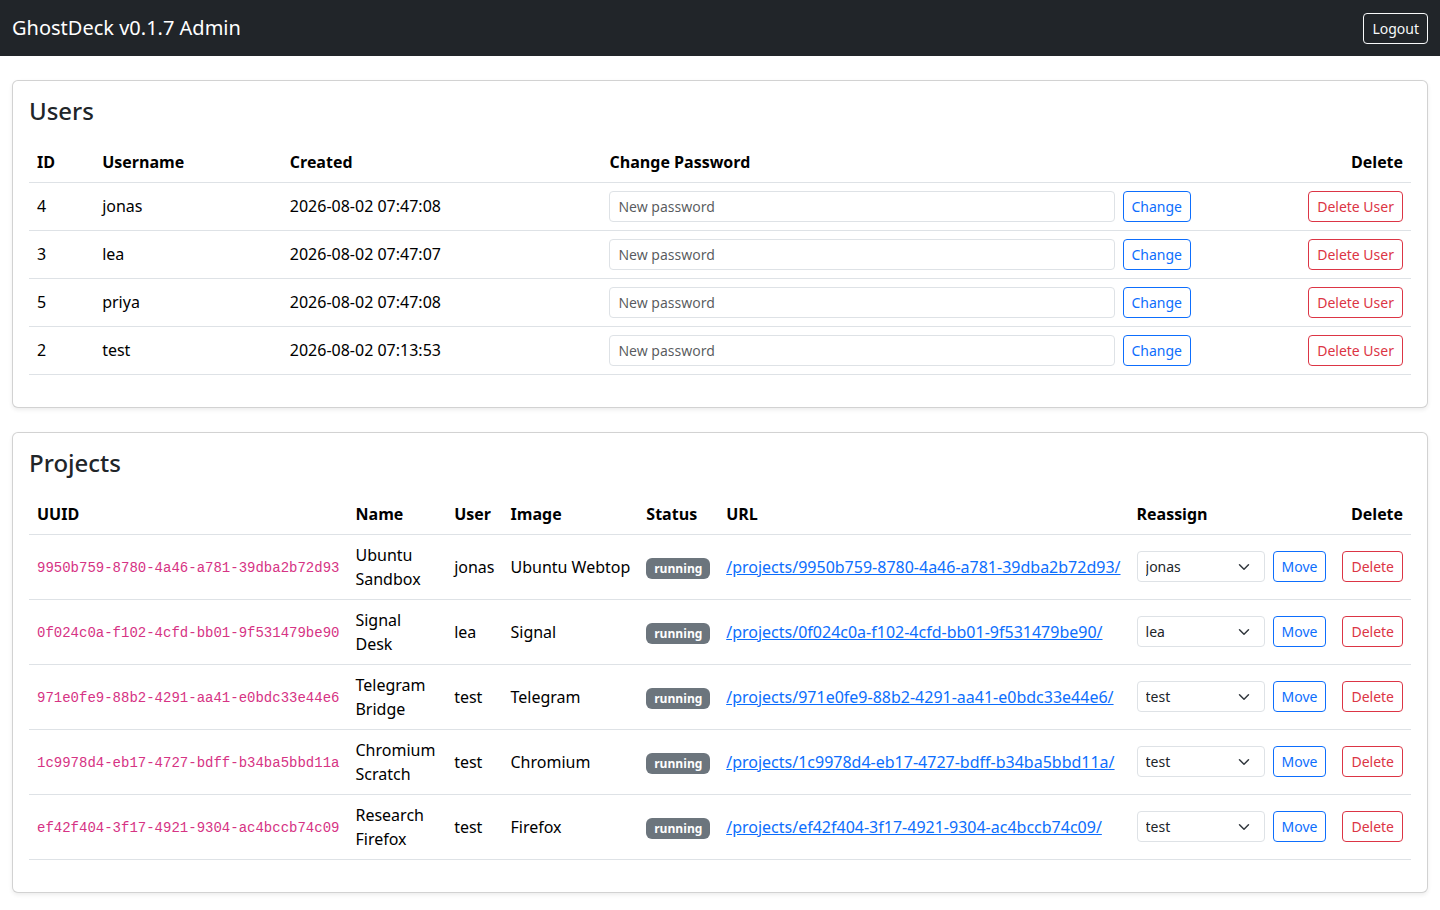
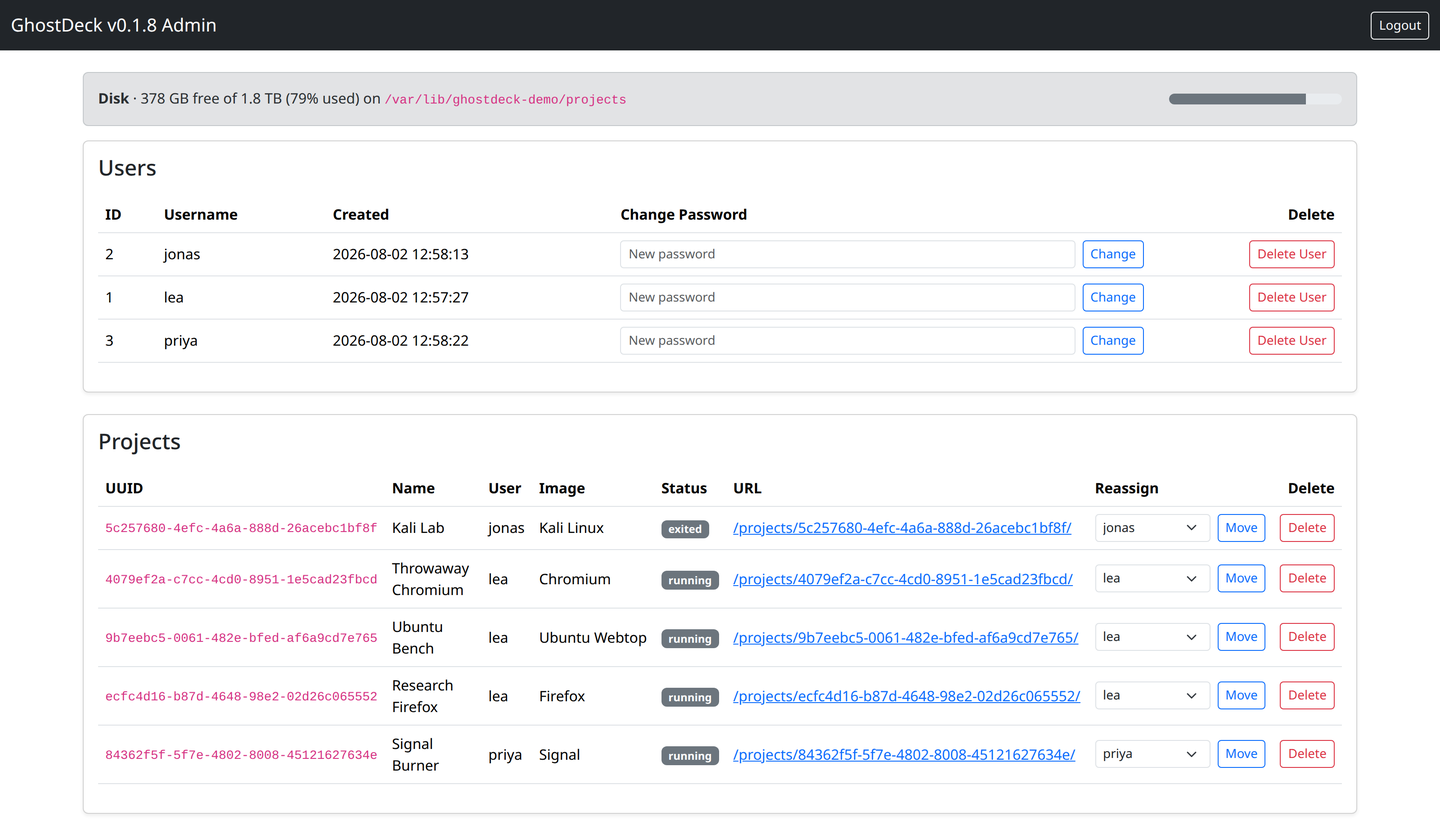
docs: sync from GhostDeck 0.1.9

diff --git a/README.md b/README.md
@@ -4,7 +4,7 @@ Self-hosted dashboard for disposable browser, messenger, Kali and Ubuntu workspa
 
 GhostDeck manages the workspace containers through the Docker socket and serves the dashboard and every workspace through a managed Caddy container with HTTPS. Workspaces need no host ports and no VNC client.
 
-![The GhostDeck dashboard with running workspaces](docs/img/dashboard.png)
+![The GhostDeck dashboard: three running workspaces, two of them on a shared network](docs/img/dashboard.png)
 
 ## What It Does
 
@@ -36,7 +36,9 @@ sudo systemctl enable --now ghostdeck
 sudo cat /var/lib/ghostdeck/.initial-admin-password
 ```
 
-Then open `https://<host>/` and sign in at `/admin/`.
+Then open `https://<host>/` and sign in at `/admin/`. Plain HTTP redirects to HTTPS by default.
+
+Application files go to `/opt/ghostdeck` and every piece of state to `/var/lib/ghostdeck`, so configuration is `/var/lib/ghostdeck/.env` and the service log — audit events included — is `sudo journalctl -u ghostdeck -f`. Upgrading is the same `apt install ./file.deb` with a newer package: `/var/lib/ghostdeck` is left untouched, so accounts, workspaces and the generated `.env` survive.
 
 ## Install — Docker
 
@@ -61,7 +63,14 @@ docker compose up -d
 sudo cat /var/lib/ghostdeck/.initial-admin-password
 ```
 
-Images are published on [Docker Hub](https://hub.docker.com/r/solivagvs/ghostdeck) as `solivagvs/ghostdeck:latest` and `:<version>` (multi-arch manifests for `linux/amd64` and `linux/arm64`), plus single-architecture `:<version>-amd64` and `:<version>-arm64`.
+Images are published on [Docker Hub](https://hub.docker.com/r/solivagvs/ghostdeck) as `solivagvs/ghostdeck:latest` and `:<version>` (multi-arch manifests for `linux/amd64` and `linux/arm64`), plus single-architecture `:<version>-amd64` and `:<version>-arm64`. Pin `:<version>` if you would rather choose when to move. Update with:
+
+```bash
+docker compose pull
+docker compose up -d
+```
+
+GhostDeck publishes no ports of its own, so nothing in that compose file maps one. Its managed Caddy container takes host `80` and `443`; if either is already in use, set `CADDY_HTTP_BIND` and `CADDY_HTTPS_BIND` on the GhostDeck container. Follow the log with `docker logs -f ghostdeck`.
 
 No configuration is required to start. On first run GhostDeck writes `/var/lib/ghostdeck/.env` with a generated `APP_SECRET`, a generated admin password and every default below. That file is never rewritten afterwards; environment variables set on the service or container override it.
 
@@ -79,6 +88,9 @@ No configuration is required to start. On first run GhostDeck writes `/var/lib/g
 | `DOCKER_NETWORK` | `ghostdeck-net` | Base network name. Per-project networks are `<name>-p<id>`. |
 | `ALLOW_SHARED_NETWORK` | `true` | Let owners put their own workspaces on a shared network so they can reach each other. |
 | `PROJECT_UNCONFINED` | `false` | Runs workspaces with `seccomp=unconfined`. Only needed if an image will not start otherwise. |
+| `IDLE_CHECK_MINUTES` | `5` | How often workspace throughput is sampled for the idle timers. `0` disables both timers. |
+| `MIN_FREE_DISK_GB` | `5` | Refuse image pulls when the workspace filesystem has less free space than this. `0` disables the check. |
+| `MAX_PROJECTS_PER_USER` | `0` | Cap on workspaces per account. `0` means no limit. |
 | `CADDY_HTTP_BIND` | `80` | Host port for HTTP. `off` disables it. `127.0.0.1:8080` binds one address. |
 | `CADDY_HTTPS_BIND` | `443` | Host port for HTTPS, same syntax. |
 | `TRUSTED_PROXIES` | none | CIDRs whose `X-Forwarded-For` is trusted, so login rate limits see the real client address. |
@@ -90,6 +102,17 @@ No configuration is required to start. On first run GhostDeck writes `/var/lib/g
 
 Users sign up at `https://<host>/register` and see only their own workspaces. Registration is **open by default**: anyone who can reach the dashboard can create an account and start a container on your Docker host. Set `REGISTRATION_TOKEN` to require a shared invite code, which adds an **Invite code** field to the form and rejects everything else. Wrong codes are rate limited per source address, as are failed logins.
 
+![The registration form with an invite code required](docs/img/register.png)
+
+Generate a code and apply it:
+
+```bash
+openssl rand -base64 16                # put the value in /var/lib/ghostdeck/.env
+sudo systemctl restart ghostdeck       # or: docker restart ghostdeck
+```
+
+It is one shared code rather than one per user, so rotate it once the intended people have signed up. Changing or clearing it affects new registrations only; existing accounts and sessions keep working, and an empty, commented-out or whitespace-only value means registration is open again.
+
 Admins manage every account and workspace from `/admin/`, including reassigning a workspace to another user and resetting passwords.
 
 ![The admin view listing users and their workspaces](docs/img/admin.png)
@@ -98,9 +121,19 @@ Admins manage every account and workspace from `/admin/`, including reassigning 
 
 Each project container runs on its own Docker bridge network, `<DOCKER_NETWORK>-p<project-id>`. Only the managed Caddy container is attached to every project network, so one workspace cannot reach another workspace's container directly; reaching one through Caddy requires a session that owns it.
 
-Workspaces are isolated from each other unless their owner puts them on a shared network. A shared network is an opt-in second network, toggled per workspace from its settings page, that lets one owner's workspaces reach each other by name — two machines on one bench. Shared networks never span accounts, and joining or leaving takes effect without restarting the workspace. `ALLOW_SHARED_NETWORK=false` removes the feature.
+Workspaces are isolated from each other unless their owner puts them on a shared network. A shared network is an opt-in second network, toggled per workspace from its settings page, that lets one owner's workspaces reach each other by a name derived from the workspace, such as `ubuntu-bench` — two machines on one bench. Shared networks never span accounts, and joining or leaving takes effect without restarting the workspace. `ALLOW_SHARED_NETWORK=false` removes the feature.
+
+![Workspace settings: rename, idle timers and shared network membership](docs/img/settings.png)
 
 Isolation applies between workspaces only. Every workspace keeps normal outbound access to the internet, the host's LAN and ports published on the host. Kali workspaces run with `NET_ADMIN` and `NET_RAW`, and Ubuntu Webtop runs with `apparmor=unconfined`.
+
+Workspaces created before isolation existed move onto their own network at the next service start, and networks belonging to deleted workspaces are removed by a background sweep rather than immediately. If network creation starts failing on a busy host, widen `default-address-pools` in `/etc/docker/daemon.json`.
+
+## Idle Timers
+
+Every workspace has two optional timers on its settings page, in 12 hour steps: **stop when idle** frees memory and CPU but keeps the home directory, and **delete when idle** removes the workspace and its data. Both are off by default.
+
+Idleness comes from the container's network throughput rather than the last page load, so a workspace someone is actively watching does not trip either timer, while a forgotten open tab does. `IDLE_CHECK_MINUTES` sets how often throughput is sampled and `0` turns both timers off for every workspace. Automatic stops and deletions are logged as `project.auto_stop` and `project.auto_delete`.
 
 ## Security Notes
 
@@ -108,7 +141,12 @@ Isolation applies between workspaces only. Every workspace keeps normal outbound
 - Runtime state — the session database, generated Caddy config and every workspace home directory — lives in `/var/lib/ghostdeck`, created `0700`.
 - GhostDeck publishes no ports itself. Its managed Caddy container publishes `80` and `443`.
 - The default certificate comes from Caddy's internal CA, so browsers warn until you trust it. Point `CADDY_HTTPS_SITE_ADDRESS` at a real hostname for a public certificate.
-- Security events are logged with an `audit event=` prefix: `journalctl -u ghostdeck | grep 'audit event='`, or `docker logs ghostdeck 2>&1 | grep 'audit event='`.
+- Security events are logged with an `audit event=` prefix — logins and failures, logouts, registrations, password changes, workspace creation and deletion, and every admin action. Values are quoted, so a submitted username cannot forge a line.
+
+  ```bash
+  journalctl -u ghostdeck | grep 'audit event='
+  docker logs ghostdeck 2>&1 | grep 'audit event='
+  ```
 
 ## Support
 
